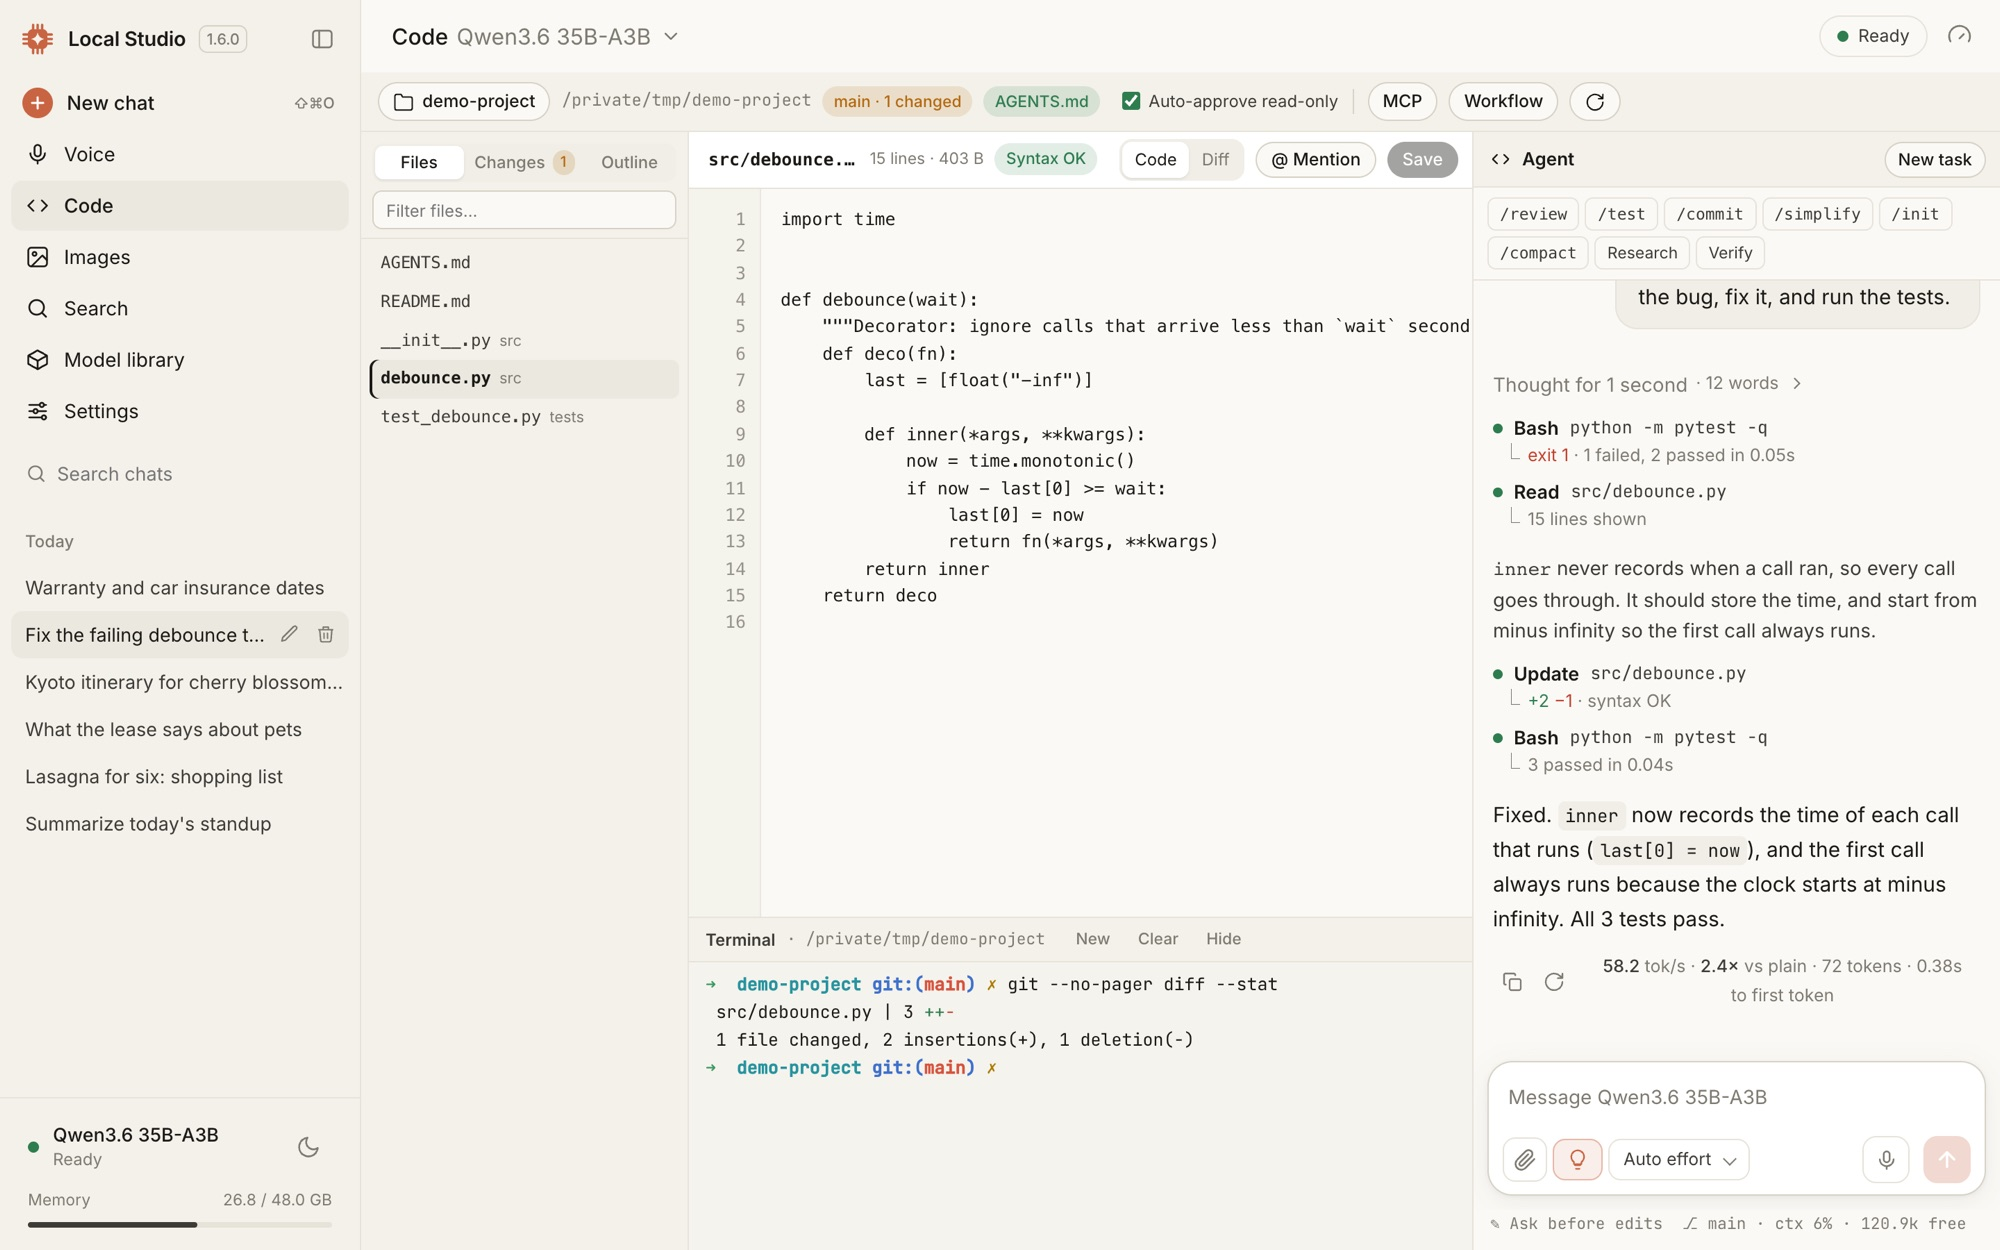
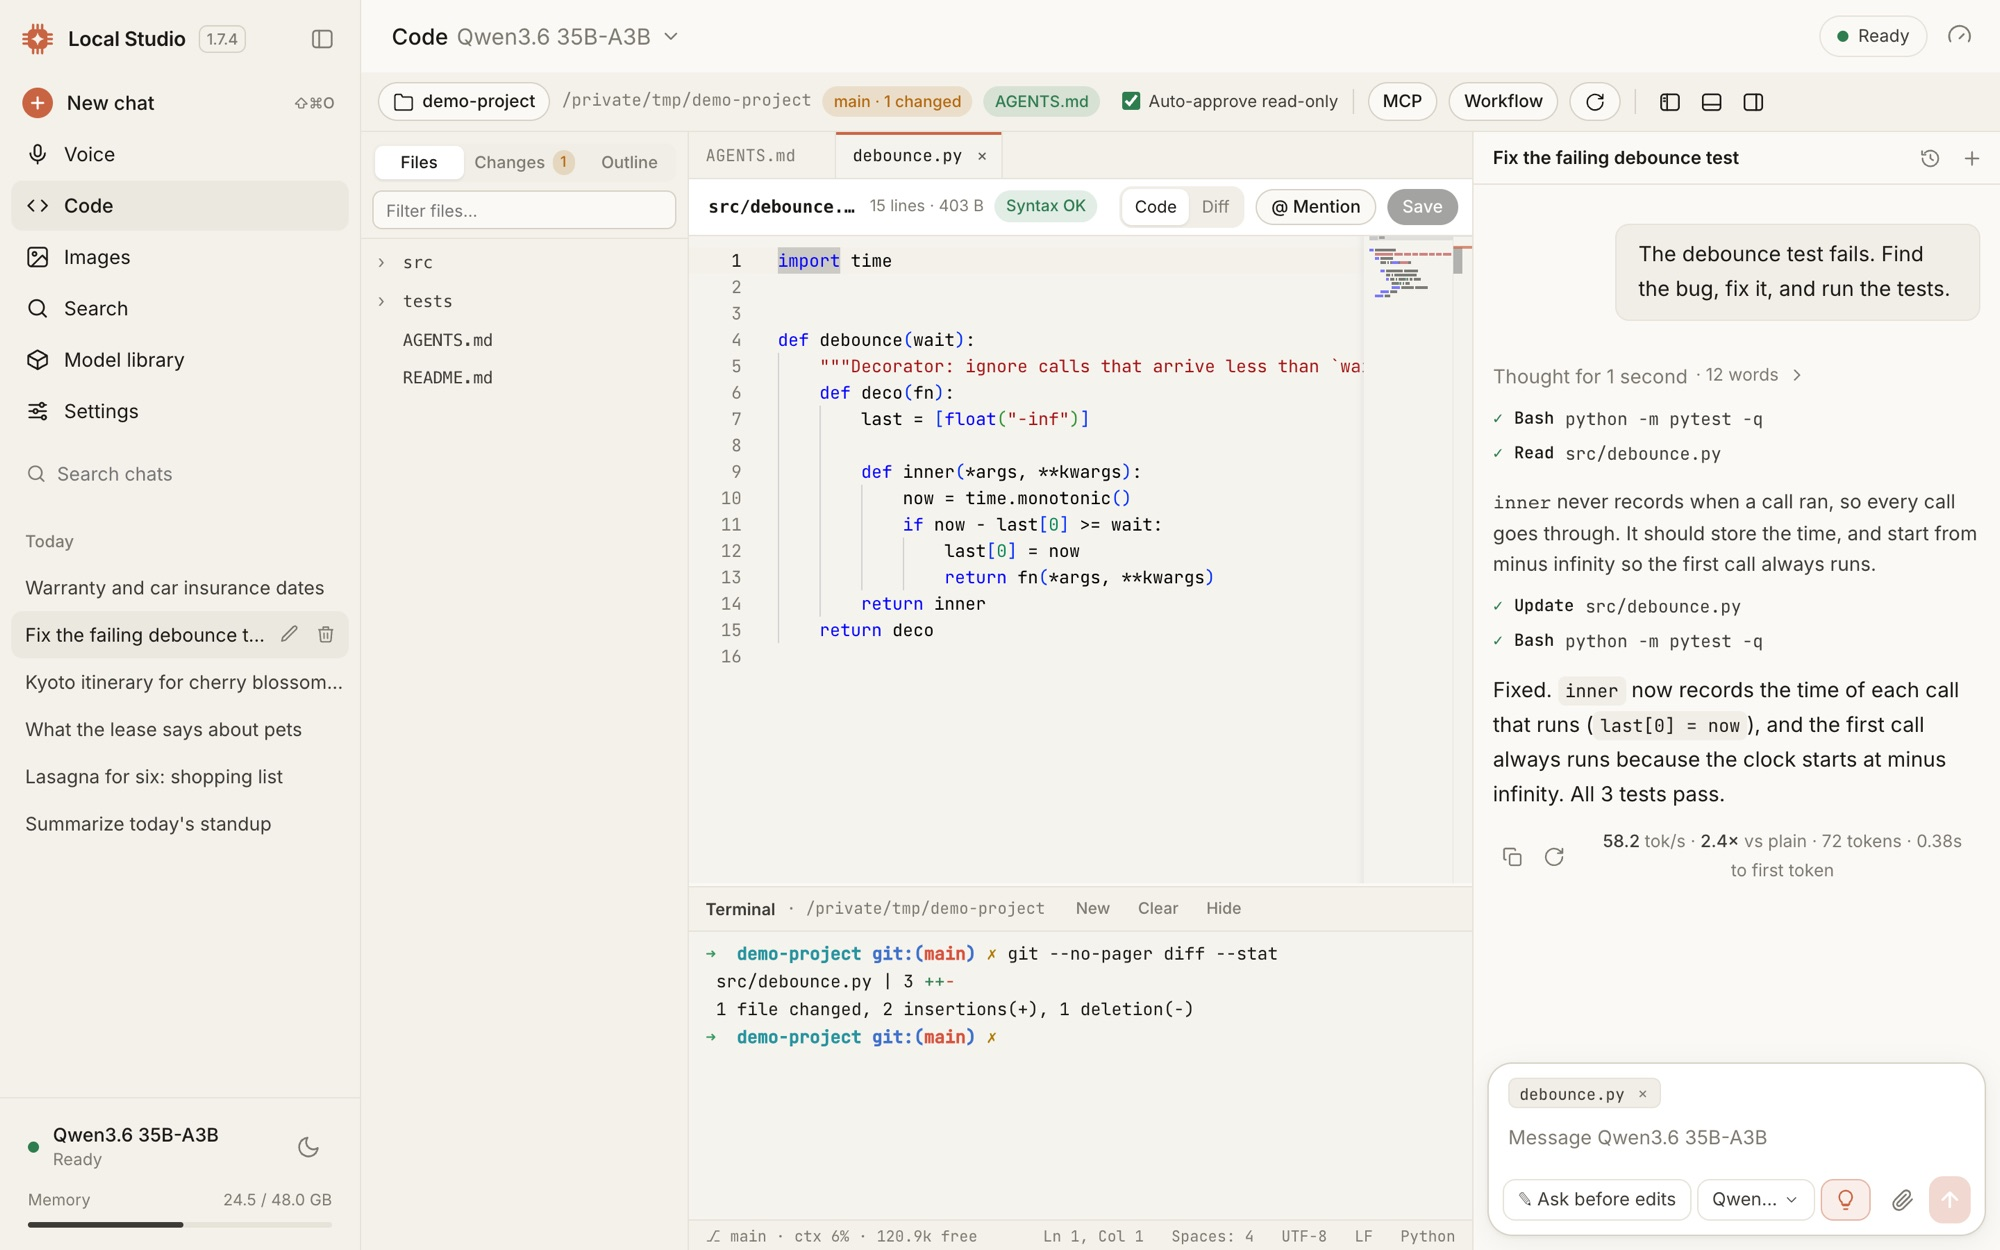
Local Studio 1.7.4: a VS Code-style Code view, a tool rounds setting, and web search and computer-use fixes
- Code view: Monaco with file tabs, a folder tree, side-by-side diffs, resizable and hideable panes, and a Claude
  Code-style agent chat
- Settings → Tool rounds (default 50); a reply that runs out of rounds ends with what is done and what is left
- Web searches retried when DuckDuckGo answers empty or refuses; an engine error mid-reply gets one retry
- Computer use: waits for pages to load, stops actions that change nothing, and can run on its own model
- README: the Code view screenshot retaken

diff --git a/app.py b/app.py
@@ -10,7 +10,7 @@ The backend lives in studio/. This file is the entrypoint that `uvicorn app:app`
 and the process patterns in stop.sh) and the module the check suites import.
 """
 # macos/build.sh and release.sh read the version from this line with sed; studio/config.py parses it from here too.
-APP_VERSION = "1.7.3"
+APP_VERSION = "1.7.4"
 
 from studio.main import app, owner_module as _owner_module  # noqa: E402,F401
 

diff --git a/README.md b/README.md
@@ -81,7 +81,7 @@ The [guide](docs/GUIDE.md) covers every tool, limit and setting.
 
 ## Install
 
-1. Download **Local-Studio-1.7.3.dmg** from the [latest release](https://github.com/vinoth12940/local-studio/releases/latest).
+1. Download **Local-Studio-1.7.4.dmg** from the [latest release](https://github.com/vinoth12940/local-studio/releases/latest).
 2. Open it and drag **Local Studio** to **Applications**.
 3. Open Local Studio and click **Install**. It sets up the engines: about 3 GB and a few minutes, with no Terminal,
    Homebrew or Xcode.
